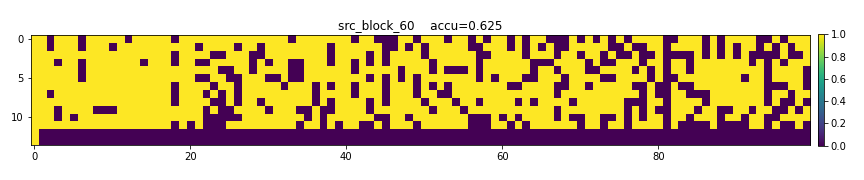
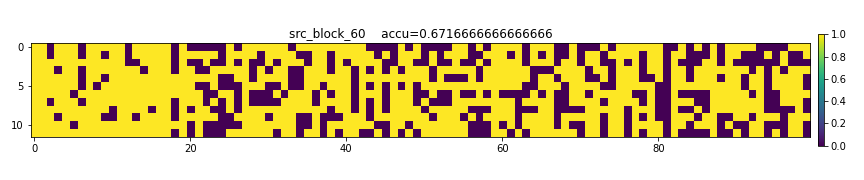
a

Changed region(s): [[0.0, 0.1111, 0.9375, 0.8889], [0.0, 0.4722, 0.0312, 0.5]]

diff --git a/src.py b/src.py
@@ -3,6 +3,7 @@ import numpy as np
 from tqdm import tqdm
 
 from omp import omp
+import dataset
 
 
 def src_one(y: torch.Tensor, D: torch.Tensor, *,
@@ -33,11 +34,11 @@ def src_one(y: torch.Tensor, D: torch.Tensor, *,
 def src(train_ds: torch.Tensor, test_ds: torch.Tensor, *,
         k=None, device=None) -> np.ndarray:
     """
-
-    :param train_ds: (class_sz, train_im_sz, h, w)
-    :param test_ds: (class_sz, test_im_sz, h, w)
+    Sparse representation-based Classification
+    :param train_ds: torch tensor with shape (class_sz, train_im_sz, h, w)
+    :param test_ds: torch tensor with shape (class_sz, test_im_sz, h, w)
     :param k: class
-    :param device: pytorch device
+    :param device: torch device
     :return: np.ndarray
     """
     assert train_ds.dim() == 4
@@ -48,7 +49,7 @@ def src(train_ds: torch.Tensor, test_ds: torch.Tensor, *,
     class_sz, train_im_sz, h, w = train_ds.size()
     _, test_im_sz, _, _ = test_ds.size()
     D = train_ds.view(class_sz, train_im_sz, h * w)
-    ret = np.zeros([class_sz, train_im_sz], dtype=np.int32)
+    ret = np.zeros([class_sz, test_im_sz], dtype=np.int32)
     for i in tqdm(range(class_sz * test_im_sz)):
         test_class = i // test_im_sz
         test_im = i % test_im_sz
@@ -59,7 +60,7 @@ def src(train_ds: torch.Tensor, test_ds: torch.Tensor, *,
 
 
 def src_eval(train_ds: torch.Tensor, test_ds: torch.Tensor, *,
-             k=None, reduction=1, device=None) -> np.ndarray:
+             k=None, reduction=2, device=None) -> np.ndarray:
     """
 
     :param train_ds: (class_sz, train_im_sz, h, w)
@@ -71,7 +72,7 @@ def src_eval(train_ds: torch.Tensor, test_ds: torch.Tensor, *,
     """
     mat = src(train_ds, test_ds, k=k, device=device)
     assert mat.ndim == 2
-    class_sz, test_im_sz = mat.shape
+    class_sz, _ = mat.shape
     label = np.arange(0, class_sz).reshape(class_sz, 1)  # (class_sz, 1)
     arr = np.where(mat == label, 1, 0)
 
@@ -83,3 +84,19 @@ def src_eval(train_ds: torch.Tensor, test_ds: torch.Tensor, *,
         return arr.mean()
     else:
         raise ValueError("reduction must be 0 or 1 or 2")
+
+
+if __name__ == '__main__':
+    use_cuda = torch.cuda.is_available()
+    device = torch.device("cuda" if use_cuda else "cpu")
+    print(device)
+
+    train_ds = dataset.train()
+    train_ds = torch.tensor(train_ds, device=device)
+
+    test_ds = dataset.test()
+    test_ds = torch.tensor(test_ds, device=device)
+
+    y = train_ds[0, 0, :, :]
+    accu = src_one(y.view(40 * 30), train_ds.view(100, 14, 40 * 30), k=60, device=device)
+    print(accu)

diff --git a/src_block.py b/src_block.py
@@ -63,7 +63,7 @@ def src_block(train_ds: List[torch.Tensor], test_ds: List[torch.Tensor], *,
 
 
 def src_block_eval(train_ds: List[torch.Tensor], test_ds: List[torch.Tensor], *,
-                   k=None, reduction=1, device=None) -> np.ndarray:
+                   k=None, reduction=2, device=None) -> np.ndarray:
     """
 
     :param train_ds: [(class_sz, train_im_sz, h, w)]
@@ -74,7 +74,7 @@ def src_block_eval(train_ds: List[torch.Tensor], test_ds: List[torch.Tensor], *,
     :return: Tuple[float, np.ndarray]
     """
     mat = src_block(train_ds, test_ds, k=k, device=device)
-    class_sz, test_im_sz = mat.shape
+    class_sz, _ = mat.shape
     label = np.arange(0, class_sz).reshape(class_sz, 1)  # (class_sz, 1)
     arr = np.where(mat == label, 1, 0)
 
@@ -101,5 +101,5 @@ if __name__ == '__main__':
 
     train_ds = split4(train_ds)
     test_ds = split4(test_ds)
-    accu = src_block_eval(train_ds, test_ds, k=15, device=device)
+    accu = src_block_eval(train_ds, test_ds, k=60, device=device)
     print(accu)
